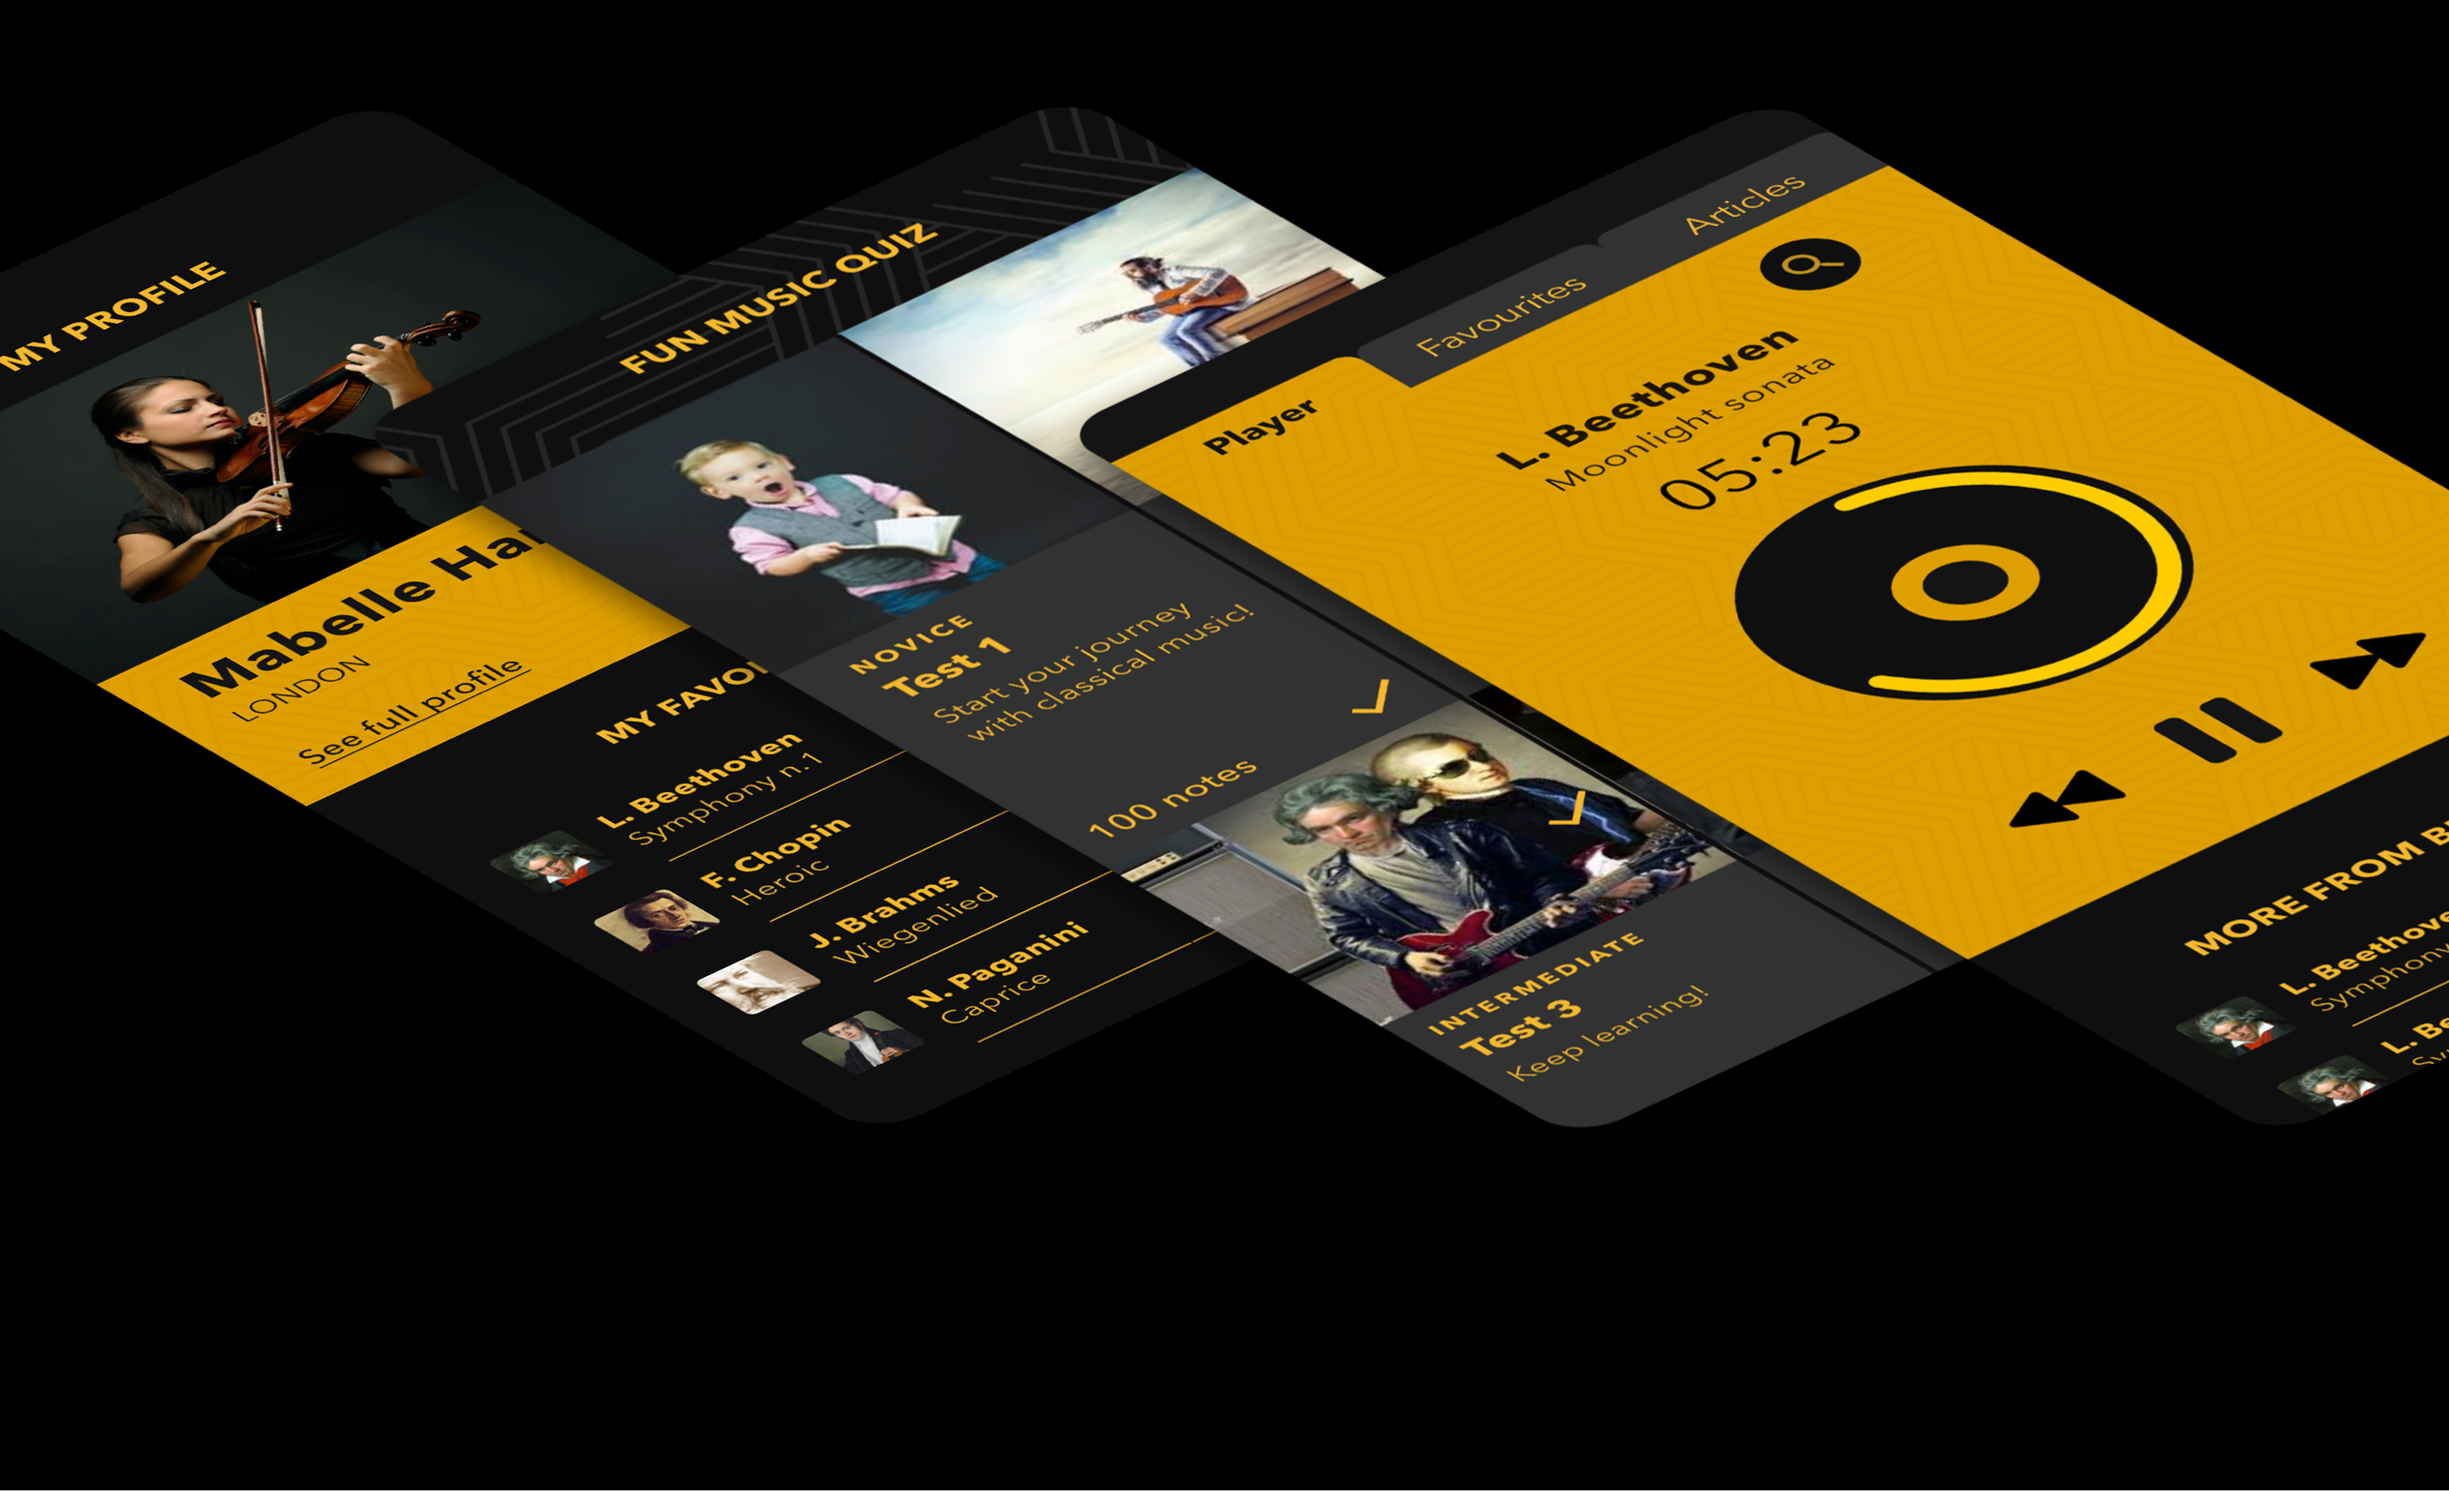
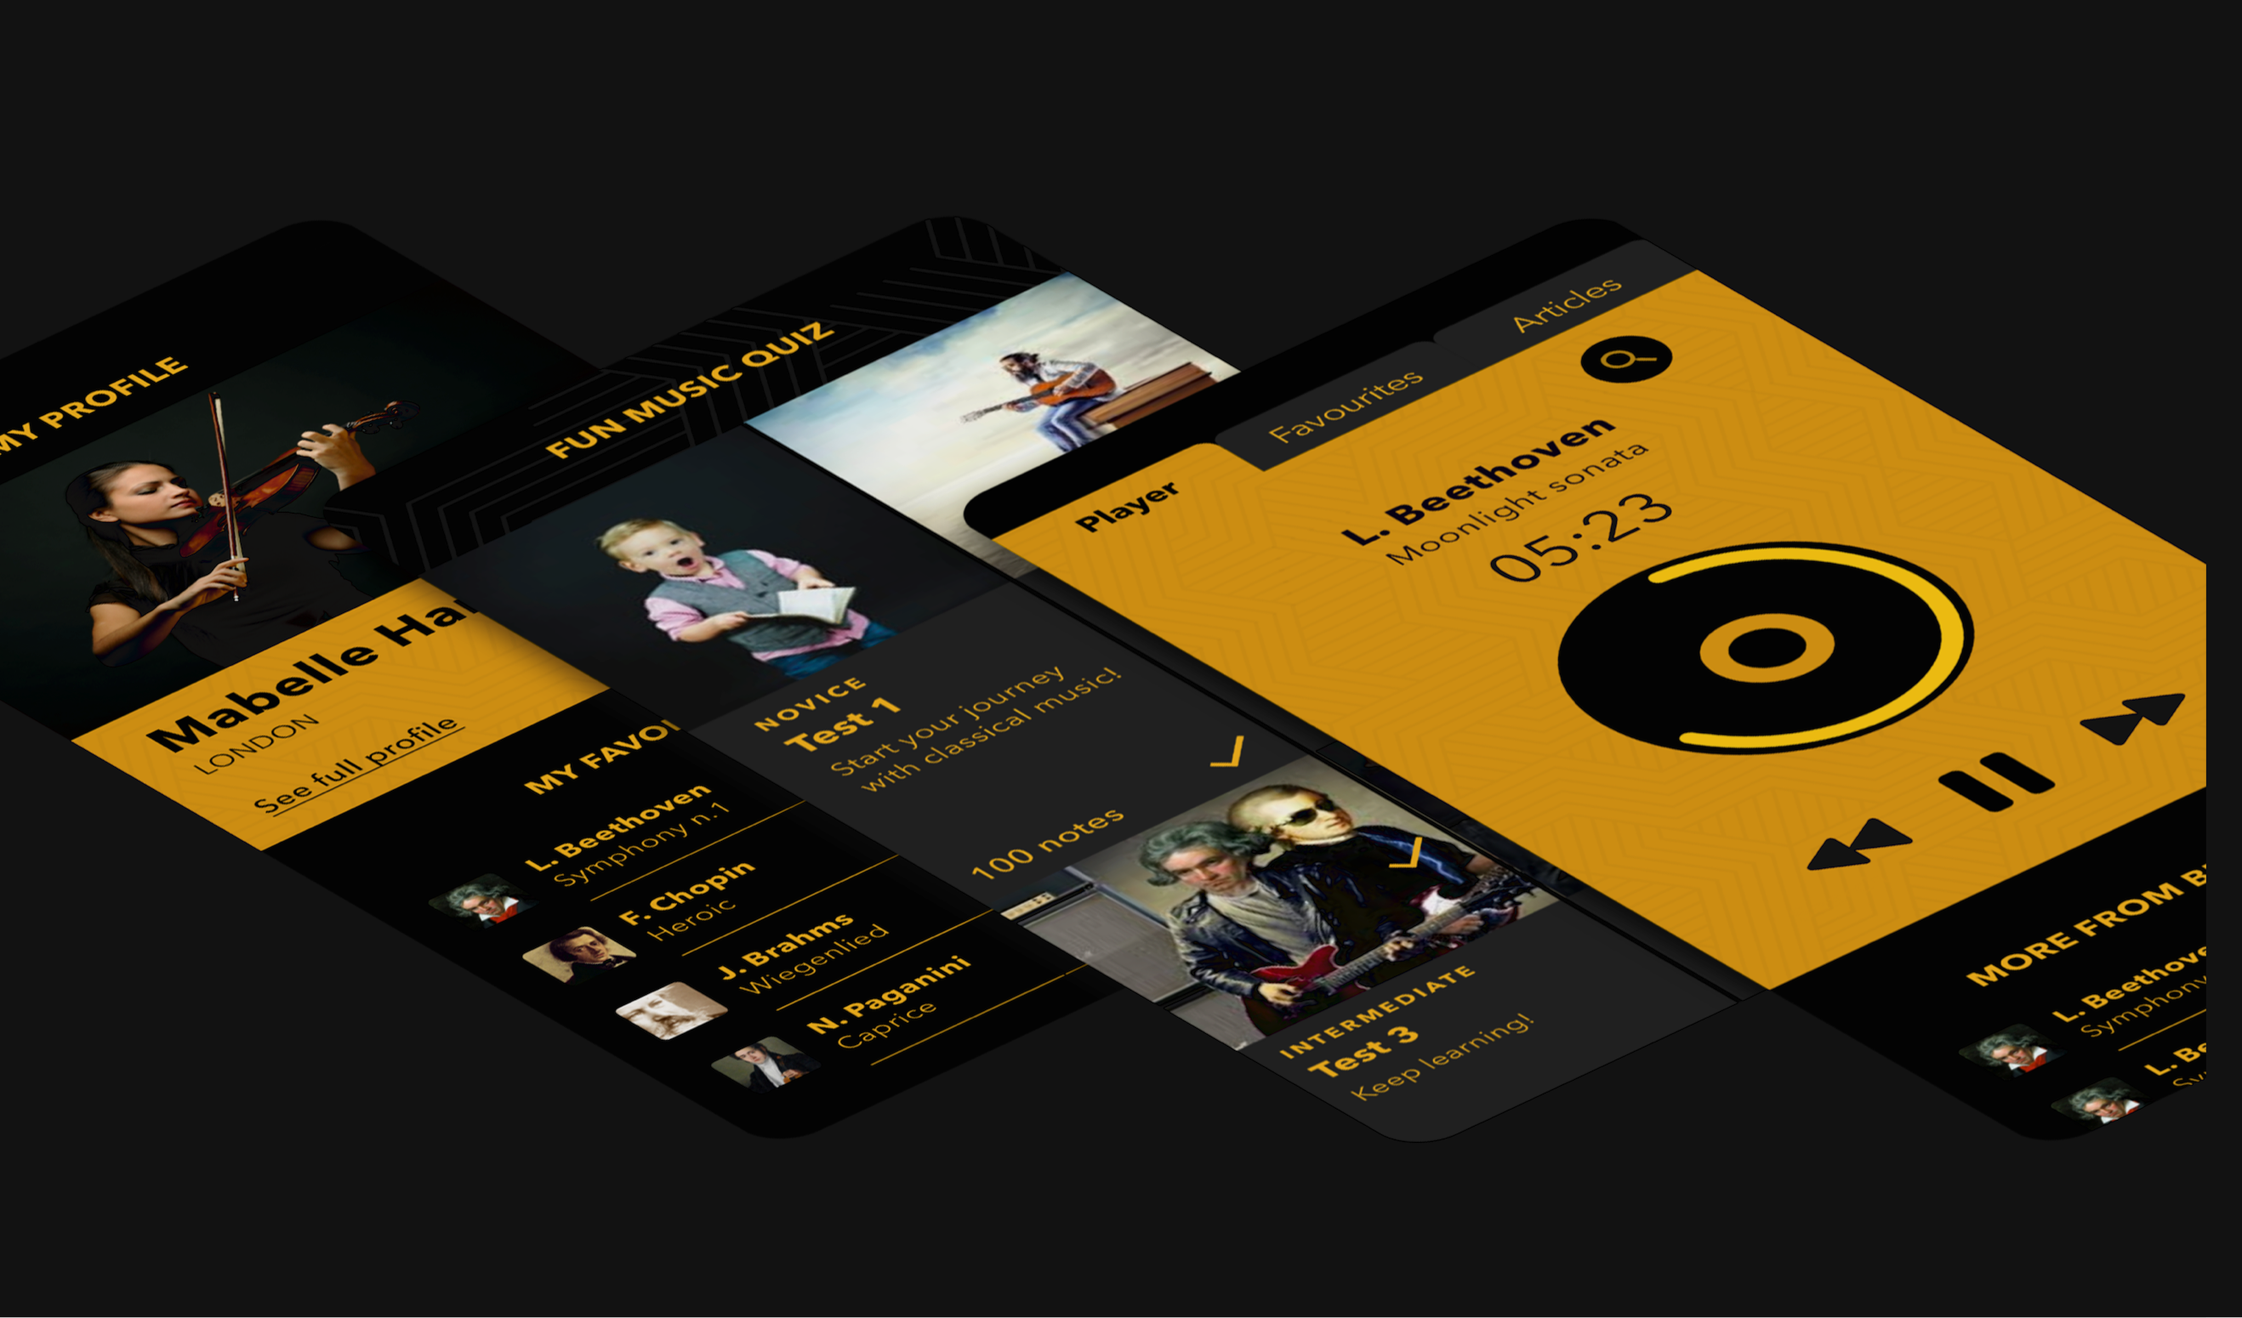
Visual update

diff --git a/src/pages/classica.js b/src/pages/classica.js
@@ -130,15 +130,15 @@ function classica() {
             ]}
             title="Portfolio page classica App"
          />
-         <div className="w-12/12 mx-auto bg-blackPure">
+         <div className="w-12/12 mx-auto bg-dark">
             <TransitionPageIn>
                <Img
                   fluid={data.classicaImg_1.childImageSharp.fluid}
-                  className="max-w-screen-xl mx-auto bg-blackPure"
+                  className="max-w-screen-xl mx-auto bg-dark"
                   loading="eager"
                />
                <div className="w-full bg-white pt-1 pb-10 md:pb-20 md:pt-32">
-                  <section className="w-11/12 md:w-7/12 max-w-screen-lg mx-auto text-black md:flex mt-8 md:mt-0 mb-0">
+                  <section className="w-11/12 md:w-7/12 max-w-screen-lg mx-auto text-dark md:flex mt-8 md:mt-0 mb-0">
                      <div className="hidden md:block md:w-4/12 md:mt-20">
                         <h4 className="font-extrabold uppercase tracking-widest mt-3">Description</h4>
                         <h4 className="pt-1">App design</h4>
@@ -153,7 +153,7 @@ function classica() {
                         </p>
                      </div>
                   </section>
-                  <section className="w-11/12 md:w-7/12 max-w-screen-lg mx-auto text-black md:flex mt-8 md:mt-16 mb-0">
+                  <section className="w-11/12 md:w-7/12 max-w-screen-lg mx-auto text-dark md:flex mt-8 md:mt-16 mb-0">
                      <div className="hidden md:block md:w-4/12 mt-24">
                         <h4 className="font-extrabold uppercase tracking-widest">Skills applied</h4>
                         <h4 className="pt-1">
@@ -194,7 +194,7 @@ function classica() {
                         </p>
                      </div>
                   </section>
-                  <section className="w-11/12 md:w-7/12 max-w-screen-lg mx-auto text-black md:flex mt-8 md:mt-16 mb-0">
+                  <section className="w-11/12 md:w-7/12 max-w-screen-lg mx-auto text-dark md:flex mt-8 md:mt-16 mb-0">
                      <div className="md:w-4/12 md:mt-20">
                         <h4 className="hidden md:block font-extrabold uppercase tracking-widest mt-2">Problem</h4>
                      </div>
@@ -210,7 +210,7 @@ function classica() {
                         </p>
                      </div>
                   </section>
-                  <section className="w-11/12 md:w-7/12 max-w-screen-lg mx-auto text-black md:flex mt-8 md:mt-16 md:pb-0">
+                  <section className="w-11/12 md:w-7/12 max-w-screen-lg mx-auto text-dark md:flex mt-8 md:mt-16 md:pb-0">
                      <div className="hidden md:block md:w-4/12 md:mt-20">
                         <h4 className="font-extrabold uppercase tracking-widest mt-2">Solution</h4>
                      </div>
@@ -222,7 +222,7 @@ function classica() {
                         </p>
                      </div>
                   </section>
-                  <section className="w-11/12 md:w-7/12 max-w-screen-lg mx-auto text-black mt-8 md:mt-16 mb-0">
+                  <section className="w-11/12 md:w-7/12 max-w-screen-lg mx-auto text-dark mt-8 md:mt-16 mb-0">
                      <div className="md:flex">
                         <div className="hidden md:block md:w-4/12 mt-0 md:mt-20"></div>
                         <div className="w-11/12 md:w-8/12 md:mx-auto">
@@ -247,7 +247,7 @@ function classica() {
                      </div>
                   </section>
                </div>
-               <div className="w-11/12 md:w-7/12 max-w-screen-lg mx-auto">
+               <div className="w-11/12 md:w-7/12 max-w-screen-lg mx-auto pt-20">
                   {imageData.map((image, i) => (
                      <Img key={i} fluid={image} loading="eager" alt="App screen" />
                   ))}
@@ -257,7 +257,7 @@ function classica() {
                   <Img fluid={data.classicaImg_7.childImageSharp.fluid} loading="eager" alt="App screen" />
                </div>
 
-               <div className="w-full bg-blackPure mx-auto">
+               <div className="w-full bg-dark mx-auto">
                   <ImgNavTiles isPageNav={true} />
                </div>
             </TransitionPageIn>

diff --git a/src/pages/pet-time.js b/src/pages/pet-time.js
@@ -270,7 +270,7 @@ function petTime() {
                   <Img fluid={data.petTime_5.childImageSharp.fluid} className="-m-2" loading="eager" alt="App screen" />
                </div>
 
-               <div className="w-full mx-auto">
+               <div className="w-full bg-dark mx-auto">
                   <ImgNavTiles isPageNav={true} />
                </div>
             </TransitionPageIn>

diff --git a/src/pages/shuush.js b/src/pages/shuush.js
@@ -135,7 +135,7 @@ function Shuush() {
                   <Img fluid={data.shuushImg_7.childImageSharp.fluid} loading="eager" alt="App screen" />
                </div>
 
-               <div className="w-full bg-blackPure mx-auto">
+               <div className="w-full bg-dark mx-auto">
                   <ImgNavTiles isPageNav={true} />
                </div>
             </TransitionPageIn>

diff --git a/src/pages/space-digest.js b/src/pages/space-digest.js
@@ -170,7 +170,7 @@ function spaceDigest() {
                   </div>
                </div>
 
-               <div className="w-full bg-blackPure  mx-auto">
+               <div className="w-full bg-dark mx-auto">
                   <ImgNavTiles isPageNav={true} />
                </div>
             </TransitionPageIn>

diff --git a/src/pages/buzzsumo.js b/src/pages/buzzsumo.js
@@ -146,7 +146,7 @@ function classNameica() {
                   </div>
                </section>
 
-               <div className="bg-blackPure">
+               <div className="bg-dark">
                   <ImgNavTiles isPageNav={true} />
                </div>
             </TransitionPageIn>

diff --git a/src/pages/three.js b/src/pages/three.js
@@ -56,7 +56,7 @@ function Three() {
                </div>
             </a>
          </TransitionPageIn>
-         <div className="bg-blackPure">
+         <div className="bg-dark">
             <ImgNavTiles isPageNav={true} />
          </div>
       </>
